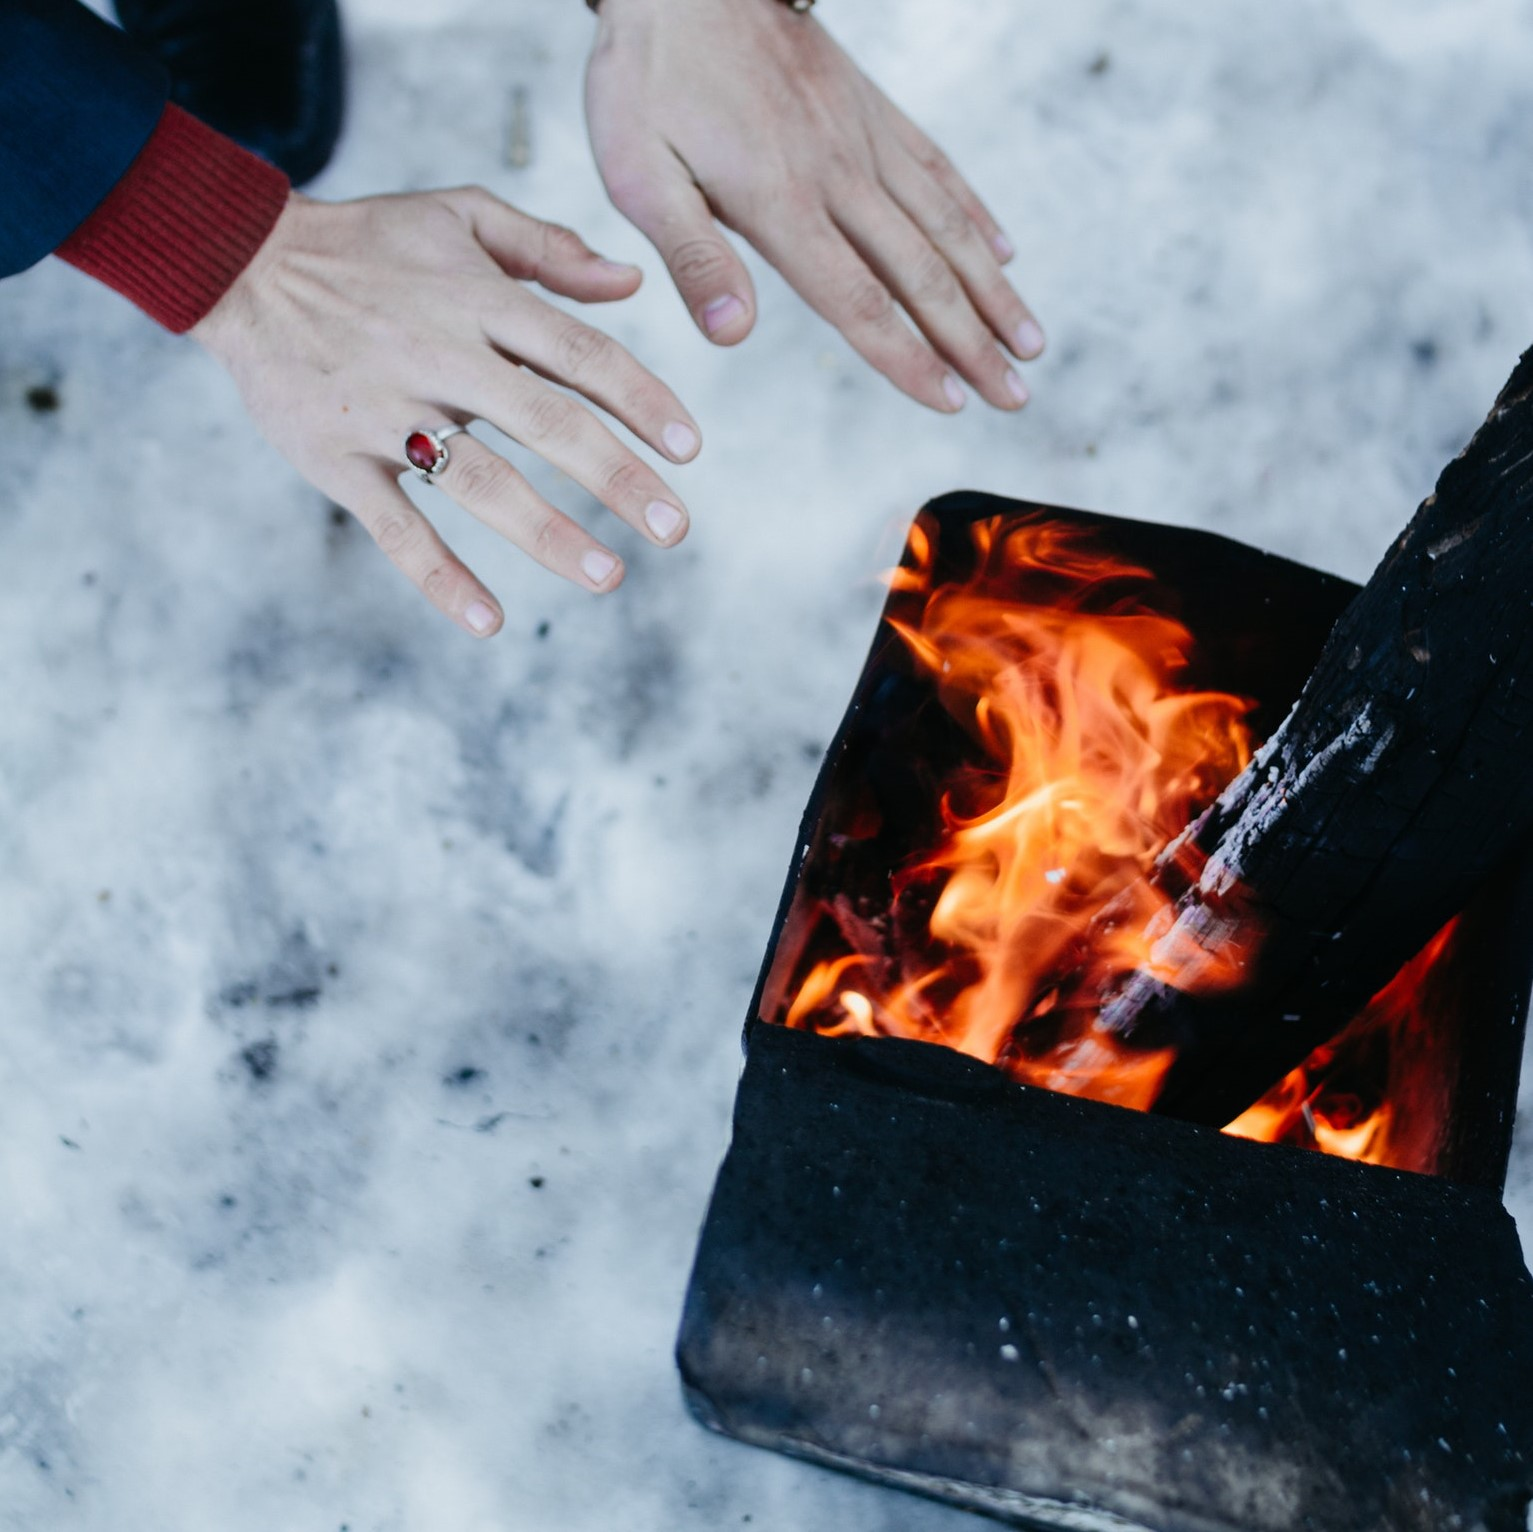
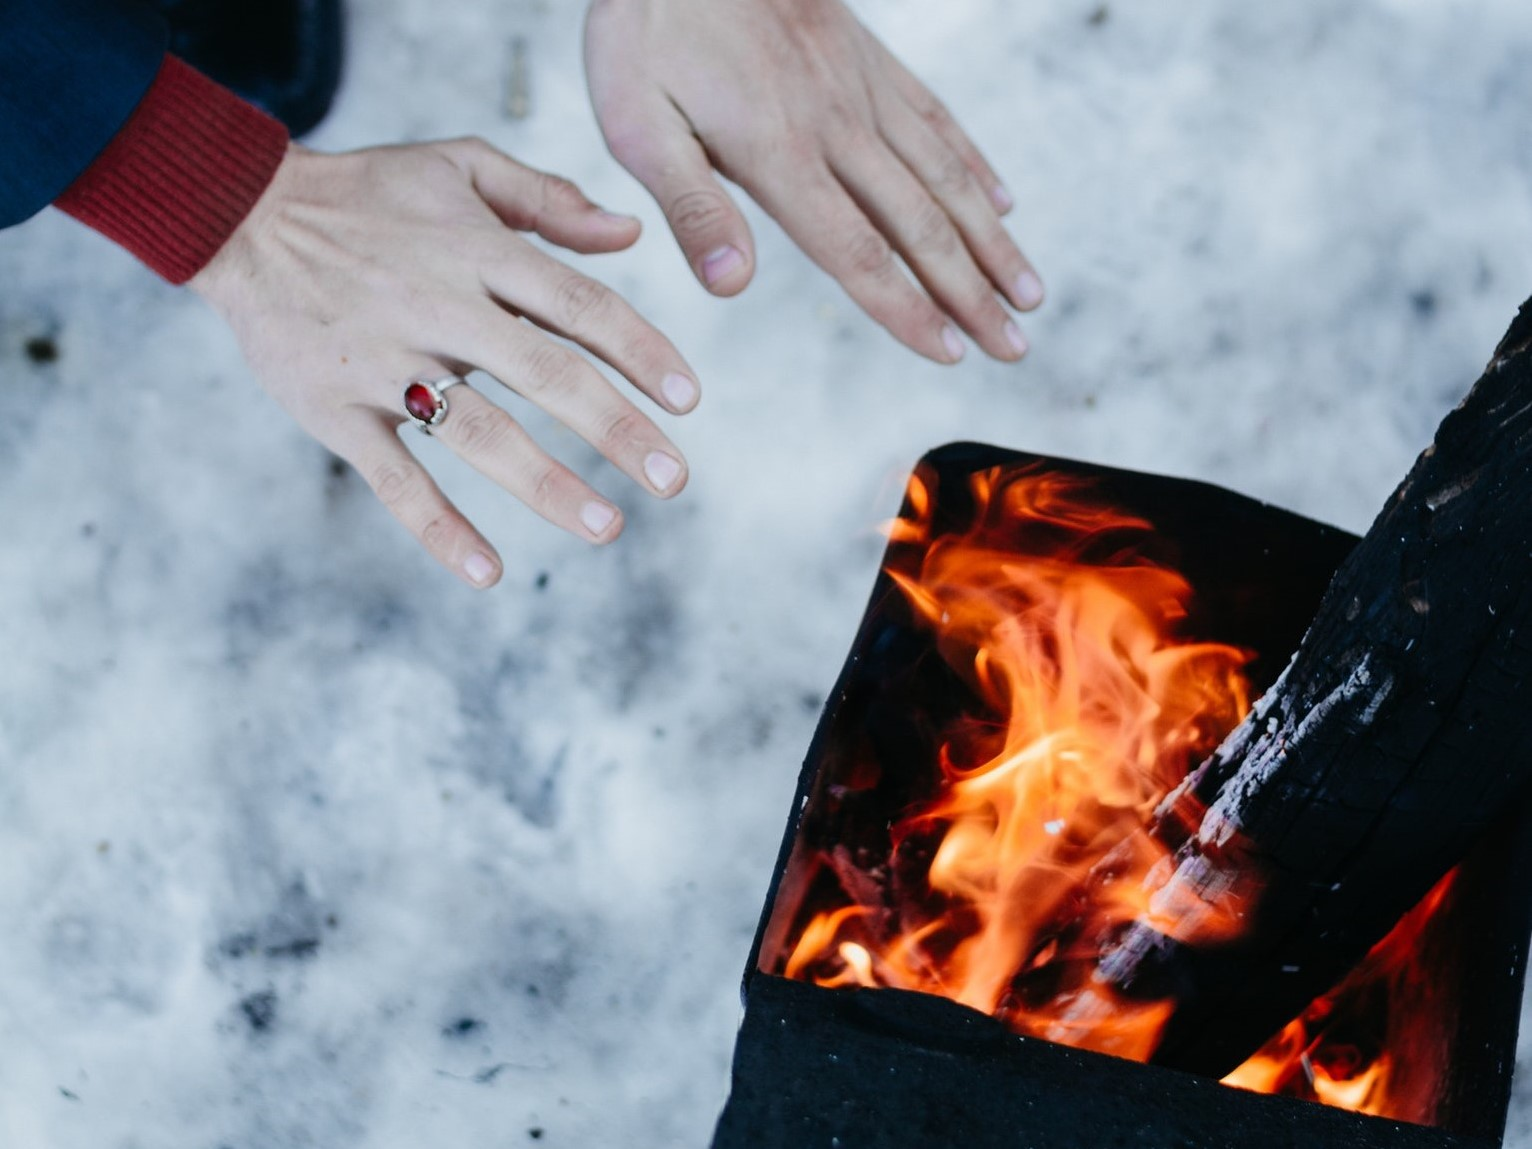
update post

diff --git a/_posts/2019-04-25-Estimada-Morada-Part-1.md b/_posts/2019-04-25-Estimada-Morada-Part-1.md
@@ -1,0 +1,28 @@
+---
+layout: post
+title: End-to-End Machine Learning Model - Part 1
+---
+
+This is the first post of a series to describe all details present in the creation of a ML model to estimate real estate prices. The posts are in a tutorial format, and each one will focus in a specific step.
+
+## Summary
+
+List of posts:
+
+1. [Warming Up!]()
+2. [Getting the Data]()
+
+## Warming Up
+
+![_config.yml]({{ site.baseurl }}/images/estimada_morada_part1.jpg "Source: <https://unsplash.com/photos/yA3e4U6UgOw>")
+
+Before we start to get our hands dirty, let's first define some basic concepts and prepare  the environment.
+
+### Basic Concepts
+
+- **Machine Learning**: It is a collection of techniques that can be used to make sense of the data.
+- **Models**: In machine learning, a model is a set of rules that represent what a system has learned from data.
+
+### Setting Up
+
+All the code examples and
